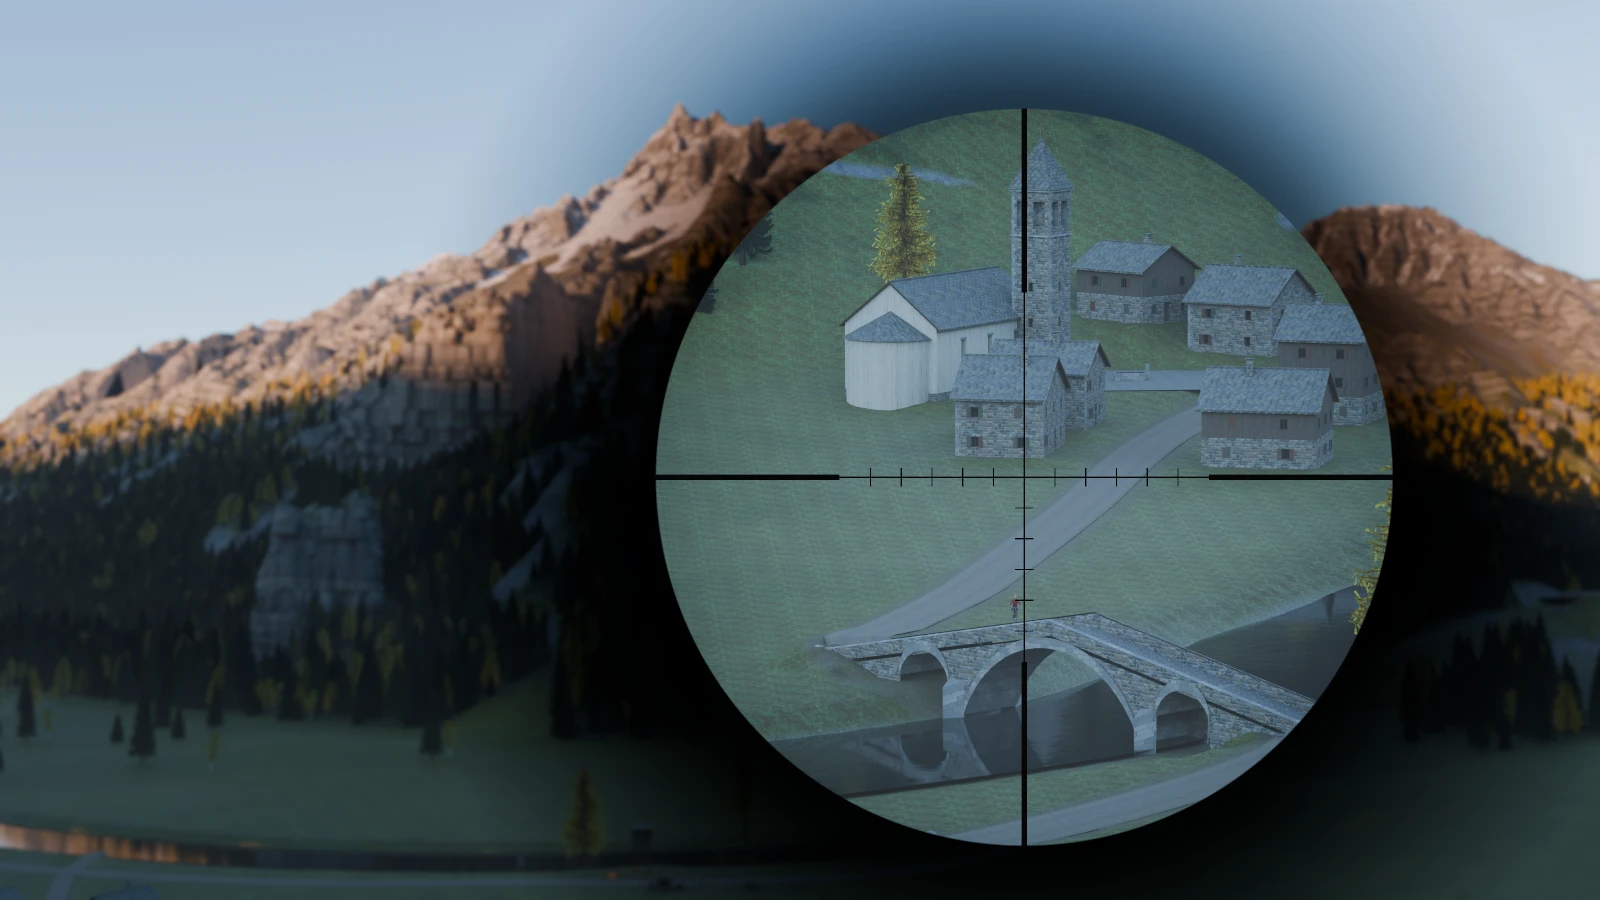
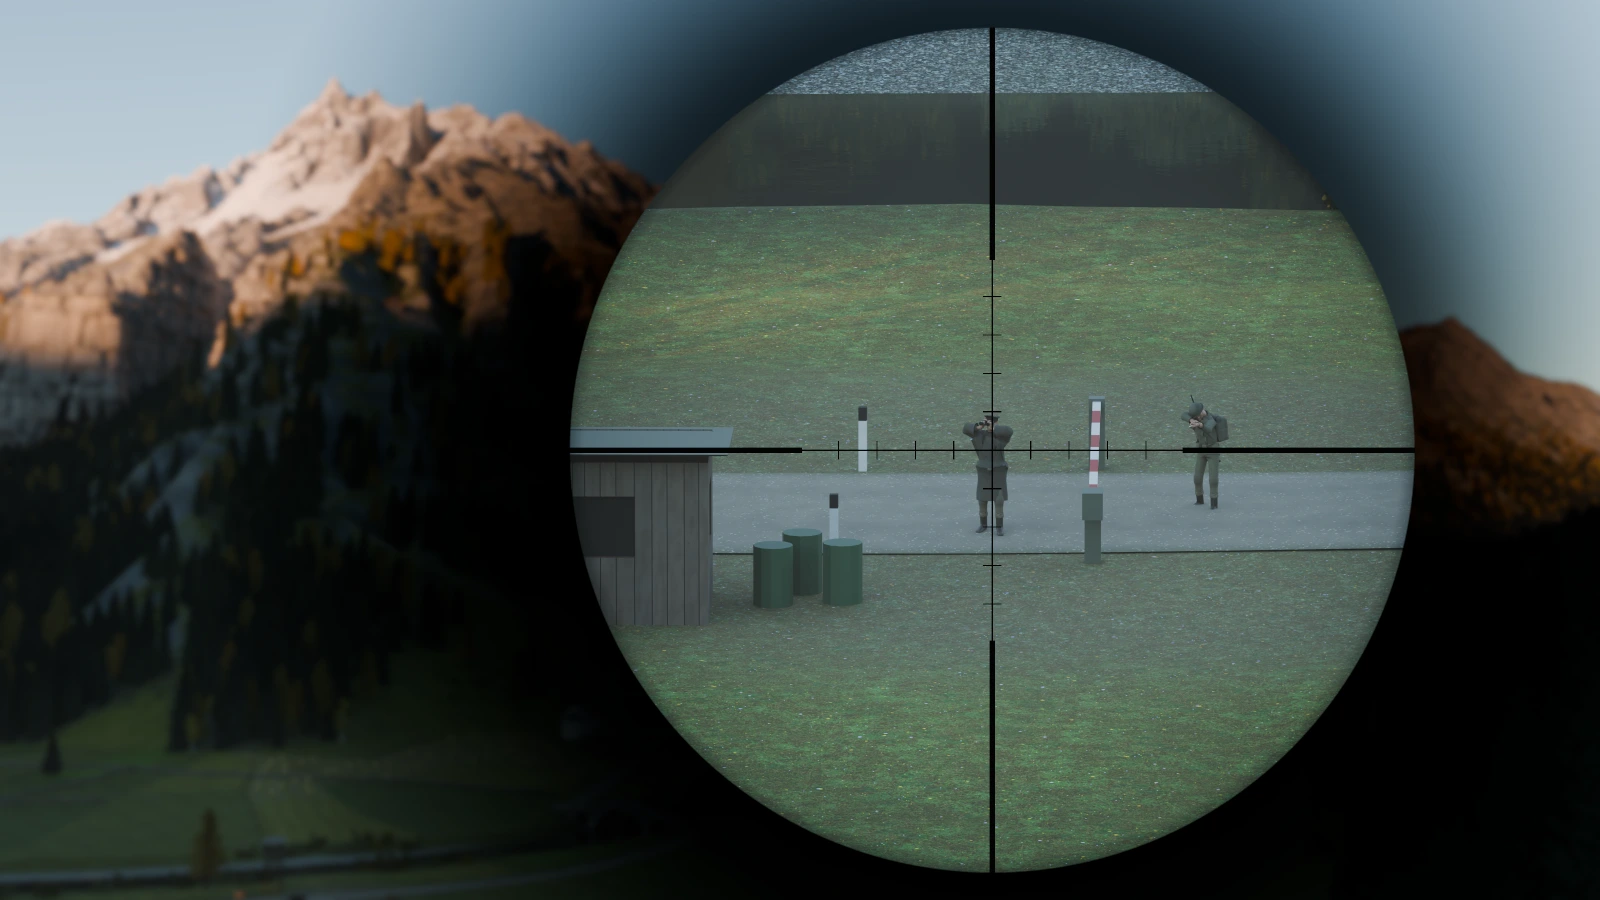
The poster through the scope at the checkpoint (an officer glassing the ridge, the reticle on him, a sentry smoking beside him, the lit Punta Serra beyond the rim); README for the second pass: the floor's fields and details, the river, the rock walls, the buildings' AO, the grade, the data maps' alp

diff --git a/art/ridge/README.md b/art/ridge/README.md
@@ -15,13 +15,13 @@ larch and stone pine, a limestone wall, snowfields and the peaks.
 
 | File (`public/assets/ridge/`) | What | Size | Budget |
 | --- | --- | --- | --- |
-| `valley.glb` + `terrain/*.webp` | terrain, forest, sites, water, roads, rocks, contract nodes | 9.3 MB + 7.0 MB = 16.3 MB | ≤ 30 MB |
-| `sky.webp` | the dawn sky and the far world, equirectangular 4096×2048 | 0.10 MB | — |
+| `valley.glb` + `terrain/*.webp` | terrain, forest and shrubs, sites, fields and their fences and walls, water, roads, rocks, contract nodes | 11.7 MB + 12.7 MB = 24.4 MB | ≤ 30 MB |
+| `sky.webp` | the dawn sky and the far world, equirectangular 4096×2048 | 0.11 MB | — |
 | `soldier.glb` | the infantryman, variants, weapons, 23 clips | 1.5 MB | 10–18k tris dressed |
 | `civilian.glb` | farmer, cyclist + bicycle, shepherd, child | 1.5 MB | 10–18k tris dressed |
 | `vehicles.glb` | truck, jeep | 1.6 MB | — |
 | `animals.glb` | cow, sheep, goat, eagle, dog | 1.9 MB | — |
-| `poster.webp` | the valley through the scope, 1600×900 | 0.12 MB | — |
+| `poster.webp` | the checkpoint through the scope, the valley beyond, 1600×900 | 0.16 MB | — |
 
 ## Building
 
@@ -36,21 +36,22 @@ so one can be rerun once those before it have run):
 
 | Stage | Does | Full build |
 | --- | --- | --- |
-| `terrain` | heightfield (macro shape, peaks, the cliff, relief, hydraulic erosion, the designed features), the terrain mesh, the log-polar colour/normal/splat maps | 6 min (3 min reusing the heightfield) |
-| `materials` | the tileable ground and building materials (Cycles micro-scenes) | 2 min |
-| `forest` | tree models → impostor atlases; where every tree stands | 3 min (10 s reusing the atlases) |
-| `buildings` | village and chapel, farm, checkpoint and watchtower, bridge, dam, alp | 3 s |
-| `water` | river, reservoir, mist ribbons, roads | 4 s |
-| `contract` | the rock walls (`rock.cliff`, `rock.crag`), the named nodes, the foreground | 13 s |
+| `terrain` | heightfield (macro shape, peaks, the cliff, relief, hydraulic erosion, the designed features), the terrain mesh, the log-polar colour/normal/splat maps | 5 min (3 min reusing the heightfield) |
+| `materials` | the tileable ground and building materials (Cycles micro-scenes) | 1 min |
+| `forest` | tree and shrub models → impostor atlases; where every tree and shrub stands | 1 min (10 s reusing the atlases) |
+| `buildings` | village and chapel, farm, checkpoint and watchtower, bridge, dam, alp; their AO atlases | 30 s |
+| `water` | river (and the boulders in its riffles), reservoir, mist ribbons, roads | 4 s |
+| `detail` | the floor's fences, dry-stone walls, haycocks, hay racks, field boulders and cairns, verge posts | 10 s |
+| `contract` | the rock walls (`rock.cliff`, `rock.crag`), the named nodes, the foreground | 10 s |
 | `sky` | `sky.webp` | 1 min |
-| `bake` | the terrain's light map | 2 min |
-| `export` | `valley.glb` + `terrain/*.webp` | 1–1.5 min |
-| `review` | review renders into `art/ridge/build/review/` | 15 min |
-| `poster` | `poster.webp` | 3.5 min |
+| `bake` | the terrain's light map | 1 min |
+| `export` | `valley.glb` + `terrain/*.webp` | 30 s |
+| `review` | review renders into `art/ridge/build/review/` | 11 min |
+| `poster` | `poster.webp` | 2.5 min |
 | `characters`, `vehicles`, `animals` | `soldier.glb` + `civilian.glb`, `vehicles.glb`, `animals.glb` | see their READMEs |
 
-All the valley stages take about 35 minutes on an M-series Mac (shared with
-other bakes); `characters` 5–15 min, `vehicles` a few minutes, `animals`
+All the valley stages take about 25 minutes on an M-series Mac (35 when
+it is shared with other bakes); `characters` 5–15 min, `vehicles` a few minutes, `animals`
 10–18 min. With no stage named, all of them run. `--quick` halves every resolution and
 cuts samples for iteration. `RIDGE_REUSE_TERRAIN=1` skips the erosion
 simulation when `build/terrain.npz` exists; `RIDGE_REUSE_IMPOSTORS=1` skips
@@ -108,16 +109,29 @@ or recompute it from the world position. Maps (`terrain/`, WebP, 2048×4096):
 | `color.webp` | macro albedo, sRGB: meadows, forest floor, rock bands and streaks, snow, the land cover's colour at a distance |
 | `normal.webp` | world-space normal in glTF axes, rgb = n·0.5 + 0.5 (heightfield + detail below the mesh's resolution) |
 | `splat0.webp` | r grass, g rock, b scree, a snow |
-| `splat1.webp` | r dirt, g forest floor, b gravel, a alpine turf |
+| `splat1.webp` | r dirt (verges, farmyards, cow paths, the undercut river banks), g forest floor, b gravel (the river's bed and bars), a alpine turf (and the fields' hay and fresh stubble, which share its tawny tile) |
 | `light.webp` | r sky visibility (AO, trees and buildings included); g the sun's horizon: `deg = g·40 − 10`, lit when the sun's elevation is above it; b tree/building shadow at the design sun (1 lit); a valley-mist density factor (1 on the river, ~0.3 far from it) |
 
 Splat weights sum to 1 across the eight channels.
+
+`splat0`, `splat1` and `light` are **lossless** WebP with a straight
+(unassociated) alpha that is data, never a premultiplier; the alpha is
+floored at 1/255 so no encoder throws away the colour under it (read
+`a < 2/255` as 0). Until the second pass they were not: the exported splat
+maps had lost their RGB wherever alpha was 0 and `light.webp`'s RGB was
+premultiplied by its alpha (OpenImageIO treats a fourth channel as a
+premultiplying alpha unless told otherwise). `check.py` now decodes them and
+proves the eight weights sum to 1 and that colour survives under every
+transparent texel, the impostor atlases' included.
 
 ### The tiles
 
 Eight tileable PBR materials (`terrain/tile_<name>_{albedo,normal,hra}.webp`,
 1024² or 512²): albedo sRGB; normal tangent-space (+Z up out of the tile);
-hra = r height (0–1 over the tile's relief), g roughness, b AO.
+hra = r height (0–1 over the tile's relief), g roughness, b AO. The ground
+tiles are high-passed: variation broader than a tenth of the tile is taken
+out (the colour map carries it), because anything broad repeats as a grid
+through the scope.
 `terrain.splat.extras.tiles` gives each one's size in metres and its mean
 linear albedo:
 
@@ -166,16 +180,45 @@ and pillars). They stand a few metres proud of the terrain (which never
 shows through) and sink under it where the ground stops being steep.
 
 Their material is the rock tile (UV0, 4 m) multiplied by **COLOR_0** — the
-beds' tones, black water streaks, rust, turf on the ledges and Cycles' baked
-AO — which is plain glTF: three.js' GLTFLoader turns vertex colours on by
-itself. Light them like the buildings. The same material dresses the
-boulders (`rocks.slope`, `foreground.rock`, `secret.yeti.rock`).
+beds' tones, black water streaks, rust, turf on the ledges, weathering at a
+second and third scale, and Cycles' baked AO — which is plain glTF: three.js'
+GLTFLoader turns vertex colours on by itself. Every block of rock starts the
+tile at its own offset (the joints hide the seams), so the 4 m tile never
+shows its repeat. Light them like the buildings. The same material dresses
+the boulders (`rocks.slope`, `rocks.field`, `rocks.river`, `foreground.rock`,
+`secret.yeti.rock`).
+
+## The valley floor
+
+The floor is farmed (`valley/fields.py`): strips square to the river,
+26–78 m wide, each split once across and leaning a little, each field in a
+state the colour and splat maps paint — **mown** (pale, yellow-green, mower
+stripes 2.4 m wide), **hay** (straw windrows, haycocks), **meadow** (uncut,
+darker, the autumn crocus in flower), **pasture** (mottled, rushes, cow paths
+worn to earth), **aftermath** (vivid regrowth) — with the uncut strip a mower
+leaves along a boundary. The floor under the plates is grazed and unfenced.
+The river's margin is lush and dark; the road has a dusty verge and a band
+of uncut grass.
+
+Meshes on it (`detail` stage), all plain glTF:
+
+| Node | What | Material |
+| --- | --- | --- |
+| `fields.fences.timber` | post-and-rail fences on the field boundaries (within 1.4 km) | timber tile |
+| `fields.walls` | dry-stone walls (within 1.8 km), slumping in places | rubble tile × COLOR_0 (moss on the coping, damp foot) |
+| `fields.hay.hay`, `fields.hay.timber` | haycocks on poles in the hay fields, hay racks near the village and farm | hay, timber tiles |
+| `rocks.field` | boulders in the pastures, cairns of cleared stones | rock tile × COLOR_0 |
+| `rocks.river` | boulders in the riffles (the water's foam rings them) | rock tile × COLOR_0 |
+| `road.posts.paint_white`, `road.posts.dark` | white verge posts with a black band, both sides of the road | paint |
+| `forest.bush.<a-d>` | shrubs: alder and willow clumps on the river banks, hazel and alder hedges on the "hedge" boundaries, juniper cushions on the open slopes | impostor cards (below) |
 
 ## The forest
 
-About 102,000 trees of four species (spruce in three variants, larch in
-two, stone pine, birch in two), placed from the land cover's forest density
-and cleared from every sightline to a target. Each tree is an **impostor
+About 102,500 trees of four species (spruce in three variants, larch in
+two, stone pine, birch in two) and 2,600 shrubs (`bush`, four
+variants: alder, willow, hazel, juniper), placed from the land cover's
+forest density, the river's banks and the hedgerows, and cleared from every
+sightline to a target. Each tree is an **impostor
 card** (a quad with an alpha-tested atlas rendered from a detailed 3D model:
 albedo with AO folded in, card-space normal map); every card faces the eye.
 
@@ -192,7 +235,9 @@ albedo with AO folded in, card-space normal map); every card faces the eye.
   shadow), the normal map's card-space normal turned by the instance's yaw,
   and the same fog as the ground.
 - No 3D LODs: the eye never moves, so a tree is only ever seen from one side;
-  the 6× scope sees a card as the 512×1024 render of that tree.
+  the 6× scope sees a card as the 512×1024 render of that tree. The shrubs'
+  cards are square (512×512 cells); each card mesh's `extras.card_width_m`
+  / `card_height_m` give its size.
 
 ## Buildings, props and roads
 
@@ -201,7 +246,18 @@ One object per site and material (`village.house.3.plaster`,
 building tiles (rubble, ashlar, plaster, boards, slabs, shingles, concrete,
 paint in five colours, sandbags, setts, timber, hay); UVs in tile units, so
 the textures repeat at their real size. Plain materials for glass, iron,
-the bell and the cheese. Roads (`road.main.<n>`, `road.lane`,
+the bell and the cheese.
+
+**Baked AO**: every building object (one per site and material, the bridge
+and the dam included) has its own material and its own ambient-occlusion
+image (128–1024², baked by Cycles with the terrain and the neighbours
+occluding): glTF `occlusionTexture` on **TEXCOORD_1** (a second UV map,
+`ao`). GLTFLoader wires it to `aoMap` with `texture.channel = 1`; it darkens
+only the ambient light — the eaves, window reveals, the foot of every wall,
+the narrow streets. The dam's downstream face (`dam.face`) carries its
+weathering and AO in COLOR_0 instead.
+
+Roads (`road.main.<n>`, `road.lane`,
 `road.switchbacks`, `road.dam`) are ribbons 4 cm over the carved ground:
 UV.u across the road, UV.v along it in tile lengths.
 
@@ -209,10 +265,16 @@ UV.u across the road, UV.v along it in tile lengths.
 
 - `water.river`: a ribbon on the surface from the dam's outlet down the
   valley. UV.u across (0 bank → 1 bank), UV.v along the flow in metres
-  (downstream +v). **COLOR_0 is data, not colour**: r foam/white water, g
-  depth (0 at the banks, 1 mid-stream) — give it the water shader (or
-  switch `vertexColors` off). It runs 1.5 m under the banks, so the
-  shoreline is where the ground meets it.
+  (downstream +v). **COLOR_0 is data, not colour**: r foam/white water (the
+  outlet, the riffles, a ring and a wake round every rock in them), g depth
+  (0 at the water's edge, 1 in the deepest water) — give it the water shader
+  (or switch `vertexColors` off). Suggested: `mix(bed colour ~(0.075, 0.072,
+  0.05), deep ~(0.010, 0.016, 0.015), depth^0.6)`, foam broken up by a noise
+  scrolling with the flow, rougher where it foams. The river is no canal:
+  its width breathes ±25%, it meanders down-valley, the insides of its bends
+  lay gravel bars (the water pulls back from them) and the outsides cut
+  under an earth bank; the ribbon runs a metre or so under the banks and
+  bars, so the shoreline is where the ground meets it.
 - `water.reservoir`: the lake behind the dam, clipped to the ground.
 - `mist.river.1-3`: soft ribbons 3–14 m above the river (UV.u across, UV.v
   along, COLOR_0.a fades their edges) for a scrolling mist shader.
@@ -225,12 +287,17 @@ UV.u across the road, UV.v along it in tile lengths.
   aerial perspective), so it is the background and the environment light.
 - `scene.extras.fog` (valley.glb) — the model the review renders use:
   - haze: transmittance `exp(−d·1/14000)` toward `(0.36, 0.46, 0.62)` linear;
-  - mist: extinction `(1/650)·exp(−(y + 60)/22)` integrated along the eye
+  - mist: extinction `(1/810)·exp(−(y + 60)/22)` integrated along the eye
     ray (closed form in `valley/post.py`), scaled by `light.a` at the
-    ground point, toward `(0.31, 0.35, 0.40)`;
+    ground point, toward `(0.30, 0.32, 0.35)`;
   - both in-scatter colours × `mix(0.35, 1, sunlit)`, sunlit being the
     ground point's sun test from the light map: air in the ridge's shadow
-    scatters far less light, and without this the shaded floor goes milky.
+    scatters far less light, and without this the shaded floor goes milky;
+  - then the **grade**: the whole frame (sky included) × `(1.10, 1.0, 0.84)`
+    in linear before tone mapping — a white balance for the shade the valley
+    lies in. Without it the sky-lit meadows read teal; with it they are a
+    cool, dewy green-grey and the sun's warmth stays warm
+    (`scene.extras.fog.grade_white_balance`).
 - The scope's exposure: the review's 6× views let the eye adapt — the
   view's median luminance toward mid-grey, never darker than the wide view,
   at most +2 EV (`post.adapted_exposure`). The game's scope should do the
@@ -262,7 +329,8 @@ the same):
    `goat.hop`'s arc (1.62 m across, 1.5 m up): scale the arc to the real
    offset between consecutive ledges.
 5. **Extra nodes** the game can use or ignore: `rock.cliff`, `rock.crag`,
-   `rocks.slope`, `foreground.rock` (the rifle's rest) and
+   `rocks.slope`, `rocks.field`, `rocks.river`, `fields.*`, `road.posts.*`,
+   `forest.bush.*`, `foreground.rock` (the rifle's rest) and
    `foreground.grass` (vertex-coloured blades; uv.v 0 root → 1 tip for
    swaying), `range.*` (the plates' posts), `mist.river.*`, `road.*`,
    `eagle.land`, `tunnel`, `dam.face` (the dam's weathered downstream face,
@@ -299,10 +367,12 @@ most needs to get right:
 
 ## Performance
 
-`valley.glb` draws ~970k triangles with every tree instance: terrain 458k,
-tree cards 204k (102k instances of 16 meshes), rock walls 95k, foreground
-grass 59k, buildings and the rest ~150k — 16 instanced draw calls for the
-whole forest, 33 materials. The terrain shader is the cost to watch: 8 materials × 3
+`valley.glb` draws ~1.13M triangles with every instance: terrain 454k, tree
+and shrub cards 210k (105k instances of 24 card meshes, 24 instanced draw
+calls), rock walls 129k, the river and reservoir 68k, the fields' fences,
+walls and hay 65k, the foreground grass 61k, the village 61k, boulders 37k,
+the rest ~50k; 129 primitives, 62 materials (the buildings' each carry
+their own AO image). The terrain shader is the cost to watch: 8 materials × 3
 tiles (+1 anti-tiling sample each) + 5 maps; drop the tiles past ~1 km and
 the anti-tiling past ~500 m if the frame time needs it.
 
@@ -311,7 +381,8 @@ the anti-tiling past ~500 m if the frame time needs it.
 `art/ridge/build/review/` (git-ignored): `valley_wide.png`,
 `valley_wide_21x9.png`, the 6× scope views `valley_scope_<site>.png`
 (checkpoint, bridge, chapel, chapel_tower_12x, dam, tunnel, farm, village,
-goat_crag, cliff, yeti, peaks at 3×), the people placed in the valley
+river, river_far, goat_crag, cliff, yeti, peaks at 3×) — the first pass's
+are kept in `before/` — the people placed in the valley
 `valley_people_*.png`, and the characters' and animals' turnarounds, game
 distance views and clip contact sheets under `people/`, `fauna/` and
 `vehicles/`.
@@ -321,7 +392,9 @@ distance views and clip contact sheets under `people/`, `fauna/` and
 - `build.py` stage runner; `check.py` the contract checker; `glbtool.py`
   GLB reading/writing (instancing, node lookups) in plain Python.
 - `valley/`: `layout.py` (the plan: every site, road, river point),
-  `noise.py`, `terrain.py` + `features.py` (heightfield), `mesh.py` +
+  `noise.py`, `terrain.py` + `features.py` (heightfield), `fields.py` (the
+  floor's fields), `detail.py` (their fences, walls, hay), `bake_ao.py`
+  (the buildings' AO), `imgio.py` (image files), `mesh.py` +
   `ground.py` (terrain mesh and review material), `landcover.py` + `maps.py`
   (splat, colour, normal), `tiles.py` + `btiles.py` (materials), `trees.py`
   + `forest.py` (forest), `kit.py` + `buildings.py` + `sites.py` + `bmats.py`
